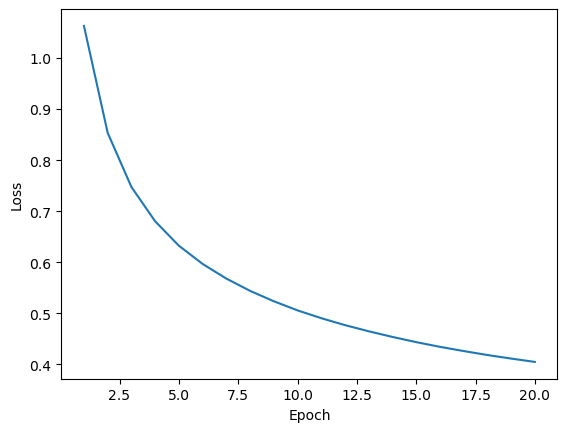
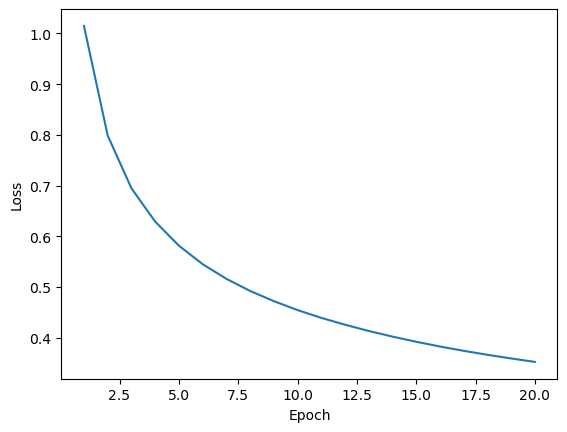
Q2: dropout only between hidden layers

diff --git a/hw1-q2.py b/hw1-q2.py
@@ -95,9 +95,9 @@ class FeedforwardNetwork(nn.Module):
         # Feed-forward propagation
         h = x
         for l in range(n_layers):
-            h = self.dropout(h)         # apply dropout regularization
             z = self.layer_logits[l](h) # score on layer l
-            h = self.activation(z)      # ignoring on output layer
+            h = self.activation(z)      # apply activation (ignoring h on output layer)
+            h = self.dropout(h)         # apply dropout regularization between hidden layers
 
         return z
 
